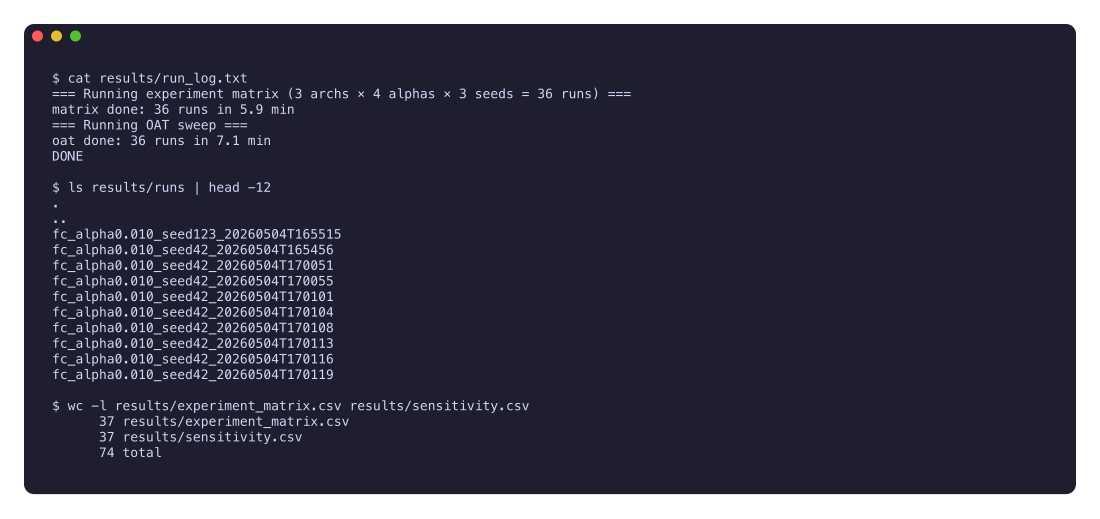
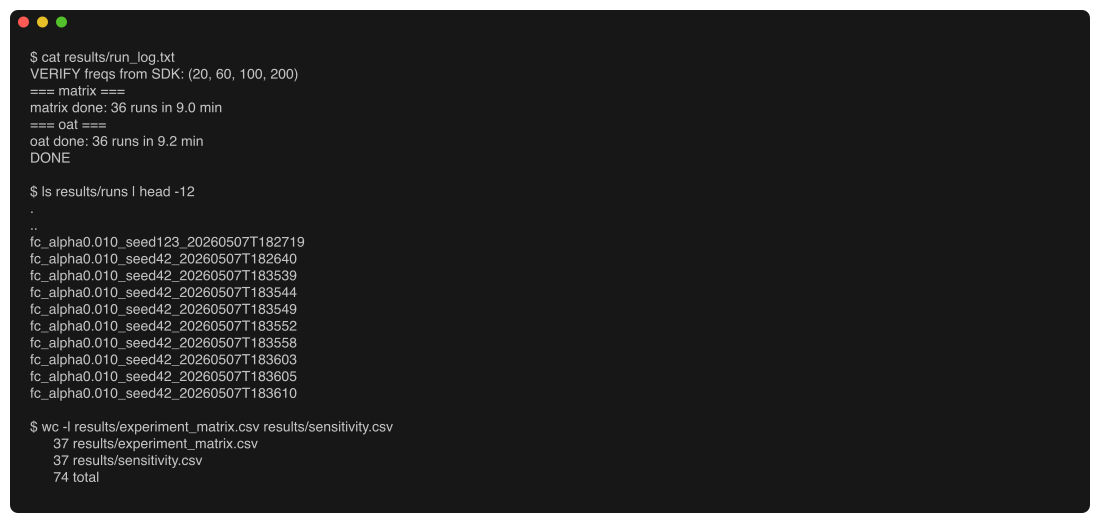
asset+log: refresh training_demo.png + run_log.txt to v1.06 rerun reality (1.08→1.09)
The post-redesign experiment rerun (v1.06) regenerated results/run_log.txt
on disk but the file was never staged, leaving the committed log showing
the v1.04 timings (5.9 / 7.1 min) and the old "Running experiment matrix"
header. assets/training_demo.png was generated against that stale log so
it inherited May-4 run-directory timestamps and old timings.

This commit:
- Stages the actually-current results/run_log.txt (now reads
  "VERIFY freqs from SDK: (20, 60, 100, 200)", 9.0 / 9.2 min, DONE).
- Re-renders assets/training_demo.png from that log via charm.sh freeze
  so the screenshot in §Training the matrix of README.md matches what
  cat results/run_log.txt actually prints today.
- No code or doc text changed; only the screenshot binary, the log file,
  CHANGELOG, and the version trail (1.08 → 1.09 across version.py,
  setup.json, pyproject.toml, uv.lock).

Gates: pytest 175 passed, ruff clean, preflight 12/12 PASSED.

Changed region(s): [[0.0, 0.0, 1.0, 0.9865]]

diff --git a/src/sinusoid_extractor/shared/version.py b/src/sinusoid_extractor/shared/version.py
@@ -6,7 +6,7 @@ Starts at 1.00 and bumps by +0.01 per change. Configs carry their own
 
 from __future__ import annotations
 
-__version__ = "1.08"
+__version__ = "1.09"
 
 
 def parse(version: str) -> tuple[int, int]:

diff --git a/CHANGELOG.md b/CHANGELOG.md
@@ -6,6 +6,15 @@ The format is based on [Keep a Changelog](https://keepachangelog.com/en/1.1.0/),
 and this project adheres to a simple `MAJOR.MINOR` versioning scheme starting
 at `1.00` and incrementing by `+0.01` per change (RULES.md §15).
 
+## [1.09] — 2026-05-07 (asset refresh)
+
+### Changed
+- Re-rendered `assets/training_demo.png` so it reflects the v1.06+ rerun:
+  shows `VERIFY freqs from SDK: (20, 60, 100, 200)` header, current
+  matrix/OAT timings (9.0 min / 9.2 min, was 5.9 / 7.1), and run-directory
+  timestamps from the post-redesign run (`20260507T...`, was `20260504T...`).
+  No code or docs changed.
+
 ## [1.08] — 2026-05-07 (consistency sweep)
 
 ### Changed